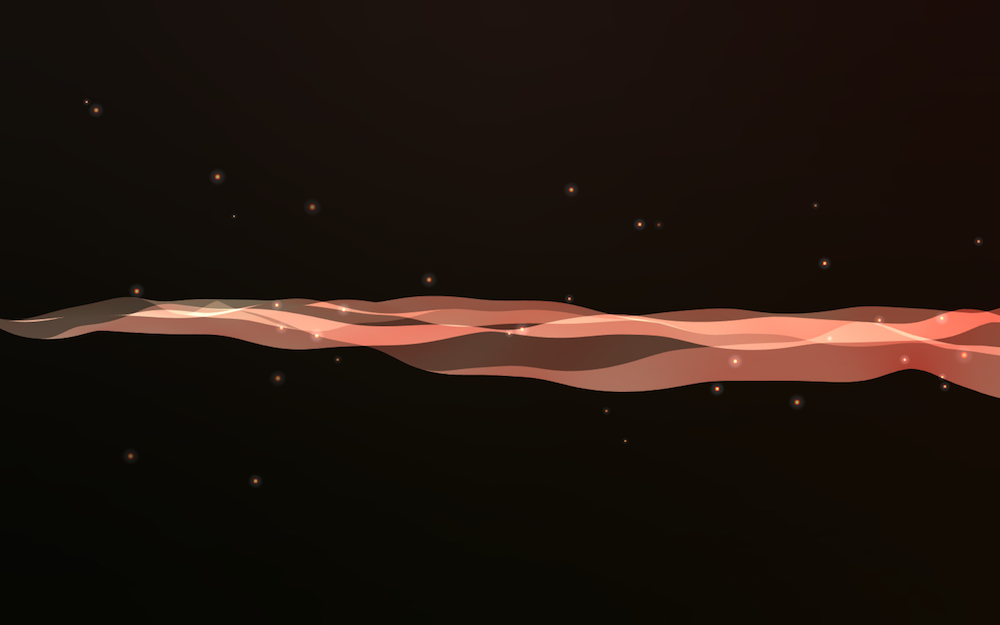
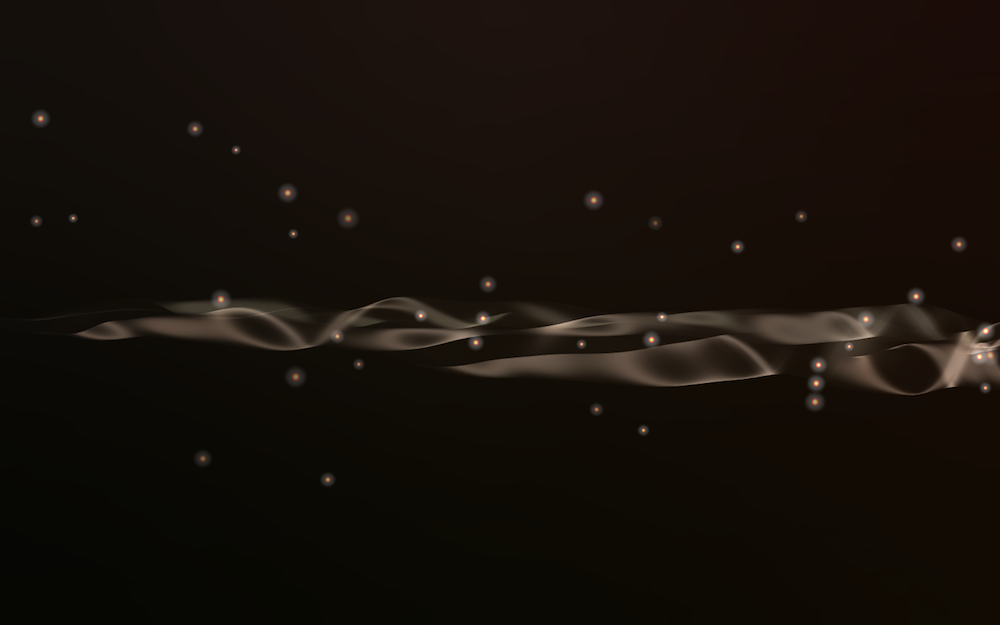
Change default settings. Update screenshot.

diff --git a/src/MusicalSmokeApp.cpp b/src/MusicalSmokeApp.cpp
@@ -125,12 +125,12 @@ class MusicalSmokeApp : public App {
 #pragma mark Settings
     
     // toggles
-    bool showParams=true;
+    bool showParams=false;
     bool hiddenCursor=false;
     bool mDrawTextures = false;
     bool mDrawWireframe = false;
     bool mDrawOriginalMesh = false;
-    bool mEnableShader = false;
+    bool mEnableShader = true;
     
     // movement
     float dx = 0.005f; // speed of audio propegation across mesh
@@ -143,7 +143,7 @@ class MusicalSmokeApp : public App {
     Color mLineColor2 = Color(1,.8,.7);
     float mLineGapAlpha = 0.5;
     Color mFalloffColor = Color(0,0,0);
-    Color mVolumeColor = Color(1,0,0);
+    Color mVolumeColor = Color(1,1,1);
     
     // lines
     bool mEnableLines = false;
